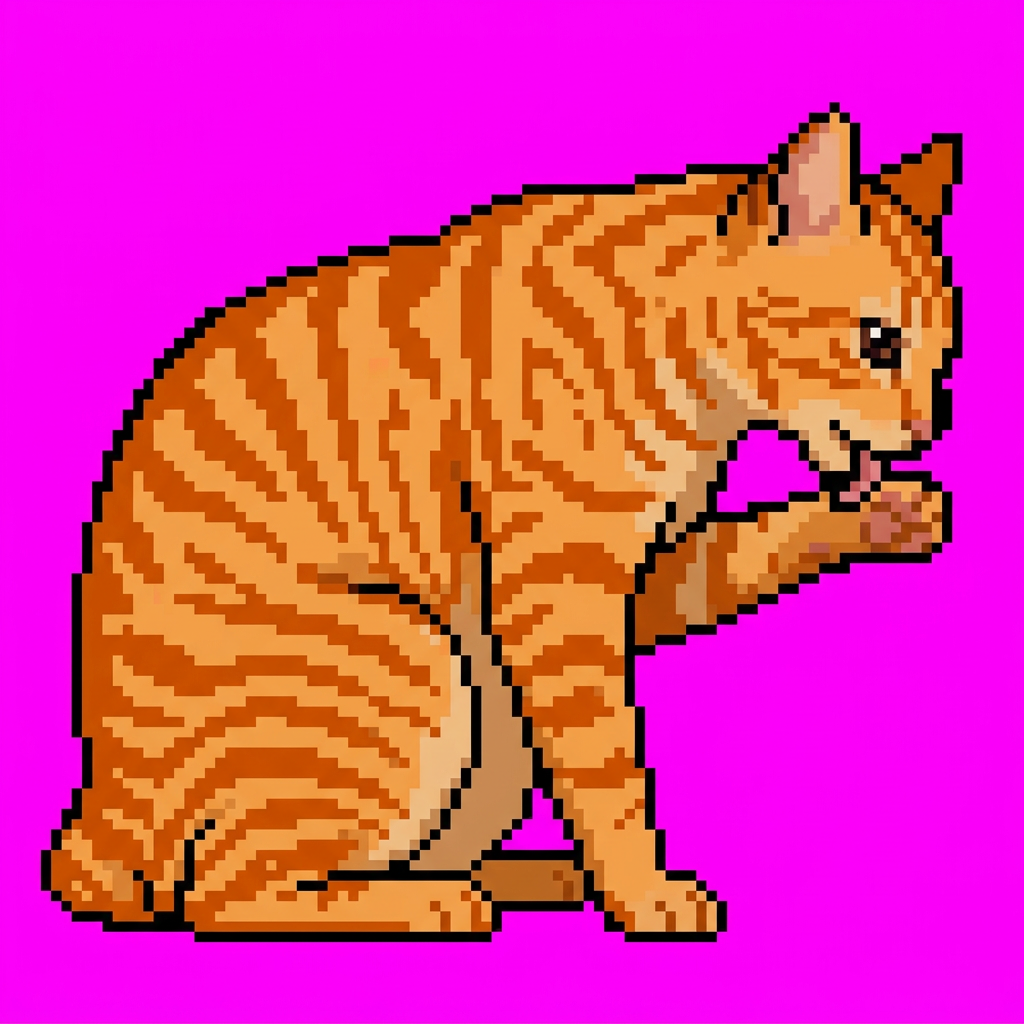
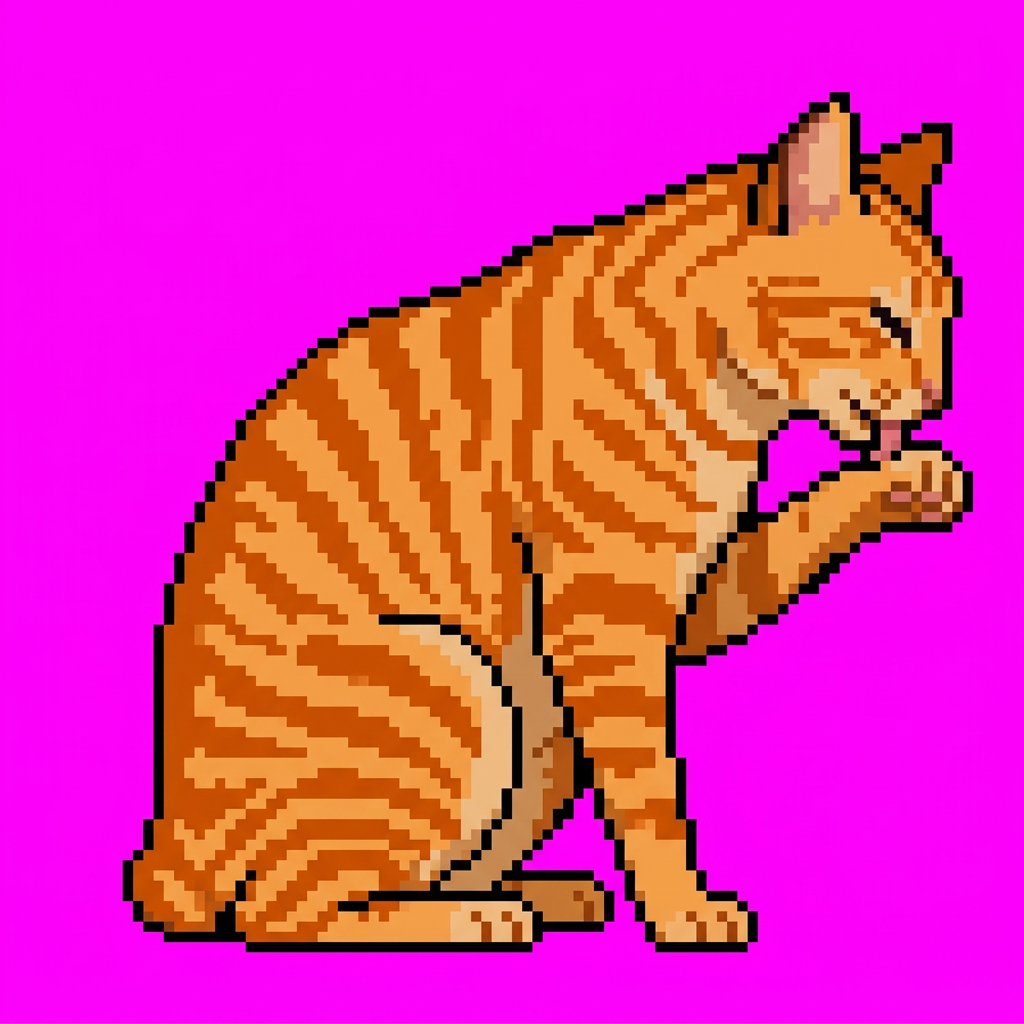
feat(art): generate parts and poses in place on the reference canvas
Every part is now generated at the reference's framing, scale and position,
and poses at the reference's scale and baseline. sit is drawn without ears
and eyes. Atlases rebuilt with npm run art.

Claude-Session: https://claude.ai/code/session_013YxWPcQyeLJtGNegrQe5AD

diff --git a/scripts/art/generate.ts b/scripts/art/generate.ts
@@ -12,26 +12,26 @@ const MAX_RETRIES = 2;
 
 const SUBJECTS: Record<string, string> = {
   reference: 'one full-body cat standing on four legs, whole body including head, ears, tail and all four legs, relaxed neutral pose',
-  body: 'only the torso, no head, no legs, no tail, no ears',
-  head: 'only the head in profile facing right, blank face with no eyes and no ears, no body, no neck, the whole head fits inside the canvas with magenta margin on all sides',
-  'ear-near': 'only a single small triangular cat ear with a pink inner, drawn large and centered, no head, nothing else',
-  'ear-far': 'only a single small triangular cat ear, slightly smaller, drawn large and centered, no head, nothing else',
-  'eyes-open': 'only two small dark oval eyes with a light highlight side by side, drawn large and centered, no face, no head, nothing else',
-  'eyes-closed': 'only two short thin dark curved lines side by side, like closed eyelids, floating on the plain magenta background, no fur, no skin, no face, no head, nothing else',
-  tail: 'only the tail, isolated, curved upward, base on the left',
-  'leg-front-near': 'only the near front leg and paw, isolated, hanging straight down, top at the upper edge',
-  'leg-front-far': 'only the far front leg and paw, isolated, same orange colours as the reference, hanging straight down, top at the upper edge',
-  'leg-back-near': 'only the near back leg with the bent haunch and paw, isolated, nothing else',
-  'leg-back-far': 'only the far back leg and paw, isolated, slightly darker, nothing else',
-  'paw-raised': 'only a single disembodied cat front leg and open paw pointing straight up, vertical, centered, with magenta on both sides, no cat body, no head, no tail, nothing else',
-  sit: 'whole cat sitting upright, side view, tail not shown',
-  loaf: 'whole cat in a loaf pose, paws tucked under the body, tail not shown',
+  body: 'the torso only, spanning about x 20% to 86% and y 36% to 65% of the canvas as in the reference, with no head, no neck, no legs, no tail and no ears',
+  head: 'only the head, from the neck up, at about x 70% to 97% and y 16% to 45% of the canvas as in the reference, blank face with no ears and no eyes; everything below the chin and behind the head is plain magenta, no body at all',
+  'ear-near': 'only a single tiny triangular ear with a pink inner, about 8% of the canvas wide, at x 76% to 84% and y 16% to 27% of the canvas as in the reference; everything else on the canvas is plain magenta, including the whole body and head',
+  'ear-far': 'the far ear only, a small darker ear at about x 85% to 92% and y 16% to 24% of the canvas as in the reference; no head, no body, no other ear',
+  'eyes-open': 'the open eye only, one small dark eye at about x 86% to 92% and y 29% to 33% of the canvas as in the reference; no face, no head, nothing else',
+  'eyes-closed': 'a closed eye only, drawn as a short thin dark curved line where the open eye sits',
+  tail: 'the tail only, at about x 1% to 24% and y 45% to 80% of the canvas as in the reference, from its base at the rump to its tip; no body, no legs',
+  'leg-front-near': 'the near front leg only, from shoulder to paw',
+  'leg-front-far': 'the far front leg only, from shoulder to paw',
+  'leg-back-near': 'the near back leg only, at about x 23% to 33% and y 60% to 87% of the canvas as in the reference, from hip to paw; no body, no tail, no other leg',
+  'leg-back-far': 'only the far back leg, a slim darker leg at about x 35% to 48% and y 63% to 86% of the canvas as in the reference, from hip to paw; no body, no tail, no other leg, everything else plain magenta',
+  'paw-raised': 'only a front leg raised up with an open paw, rising from the shoulder at about x 63% to 70% of the canvas, reaching up to about y 12%; no body, no head, no tail, no other leg',
+  sit: 'whole cat sitting upright, side view, drawn WITHOUT ears and WITHOUT eyes (blank face), without the tail',
+  loaf: 'whole cat in a loaf pose, paws tucked under the body, without the tail',
   'sleep-curl': 'whole cat curled up asleep, nose tucked into tail',
-  'belly-up': 'whole cat lying on its back with belly up and paws in the air, tail not shown',
-  stretch: 'whole cat in a stretch, front legs forward, rear raised, no tail at all',
-  groom: 'whole cat sitting and licking a raised paw, tail not shown',
-  'sit-up': 'whole cat sitting up on hind legs, front paws held up, tail not shown',
-  dangle: 'whole cat held up by the scruff, body hanging limp with legs dangling, tail not shown',
+  'belly-up': 'whole cat lying on its back with belly up and paws in the air, without the tail',
+  stretch: 'whole cat in a stretch, front legs forward, rear raised, without the tail',
+  groom: 'whole cat sitting and licking a raised paw, without the tail',
+  'sit-up': 'whole cat sitting up on hind legs, front paws held up, without the tail',
+  dangle: 'whole cat held up by the scruff, body hanging limp with legs dangling, without the tail',
 };
 const PARTS = ['body', 'head', 'ear-near', 'ear-far', 'eyes-open', 'eyes-closed', 'tail', 'leg-front-near', 'leg-front-far', 'leg-back-near', 'leg-back-far', 'paw-raised'];
 const POSES = ['sit', 'loaf', 'sleep-curl', 'belly-up', 'stretch', 'groom', 'sit-up', 'dangle'];
@@ -107,7 +107,9 @@ async function main(): Promise<void> {
   mkdirSync(dir, { recursive: true });
   const coatWords = coat.replace(/-/g, ' ');
   const prompt = (subject: string, isPart: boolean) =>
-    `pixel art, 48x48 grid, side view facing right, ${coatWords} ${species}, ${subject}, flat magenta #FF00FF background, no shadow, no text. Use the attached image as the style, colour and proportion reference. Output one square image.${isPart ? ' Do not draw the whole cat: show only this part, enlarged to fill most of the canvas.' : ''}`;
+    `pixel art, 48x48 grid, side view facing right, ${coatWords} ${species}, ${subject}, flat magenta #FF00FF background, no shadow, no text. Use the attached image as the reference for style, colours and proportions. ${isPart
+      ? 'Same canvas, same size and position as the reference cat: draw ONLY this part exactly where it sits on the reference cat, at the same scale, and make everything else flat magenta #FF00FF.'
+      : 'Same canvas and same scale as the reference cat, with the feet on the same baseline as the reference.'} Output one square image.`;
 
   let reference = arg('reference') ?? join(dir, 'reference.png');
   if (!arg('reference') && (!existsSync(reference) || only?.includes('reference'))) {
